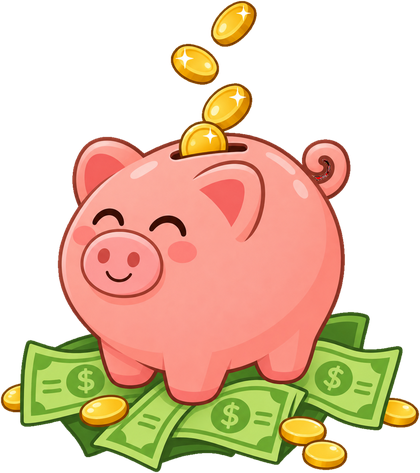
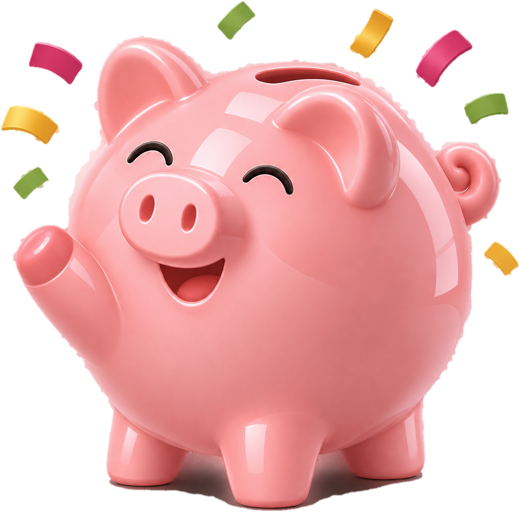
Cuchito meta lograda

diff --git a/index.html b/index.html
@@ -1464,7 +1464,7 @@ function dashHtml(M,I){
   var A=amodel();
   if(A.metas.length){
     var done=A.metas.some(function(o){return o.pct>=100;});
-    h+='<button type="button" class="dcard" data-act="view" data-v="ahorros">'+(done?'<img src="cuchito-feliz.png" width="64" height="64" alt="" style="float:right;margin:-6px -4px 0 8px;object-fit:contain">':'')+'<p class="ttl">'+(done?'¡Meta lograda! 🎉':'Tus metas')+'</p>'+A.metas.slice(0,3).map(function(o){
+    h+='<button type="button" class="dcard" data-act="view" data-v="ahorros">'+(done?'<img src="cuchito-feliz.png" width="72" height="71" alt="" style="float:right;margin:-6px -4px 0 8px;object-fit:contain">':'')+'<p class="ttl">'+(done?'¡Meta lograda! 🎉':'Tus metas')+'</p>'+A.metas.slice(0,3).map(function(o){
       return '<div class="cl"><span>🎯 '+esc(o.m.name)+'</span><b>'+fmt(o.s)+' <span style="font-weight:400;color:var(--ink-2)">de '+fmt(o.m.goal)+'</span></b><i><u style="width:'+o.pct+'%"></u></i></div>';}).join('')+'</button>';
   }
   return h;
